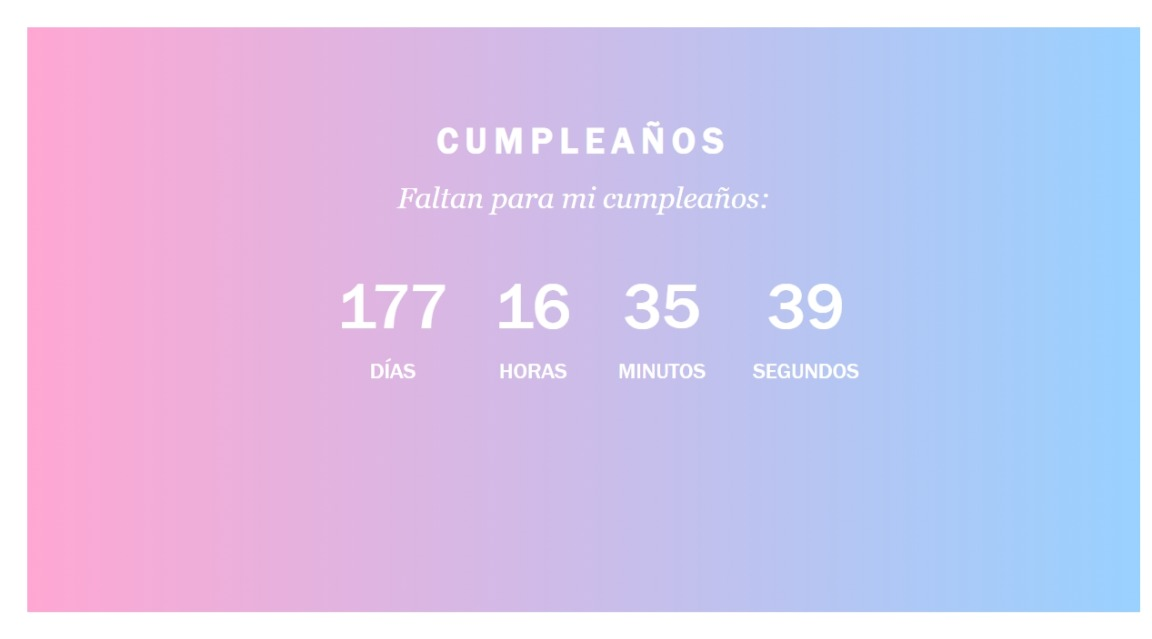
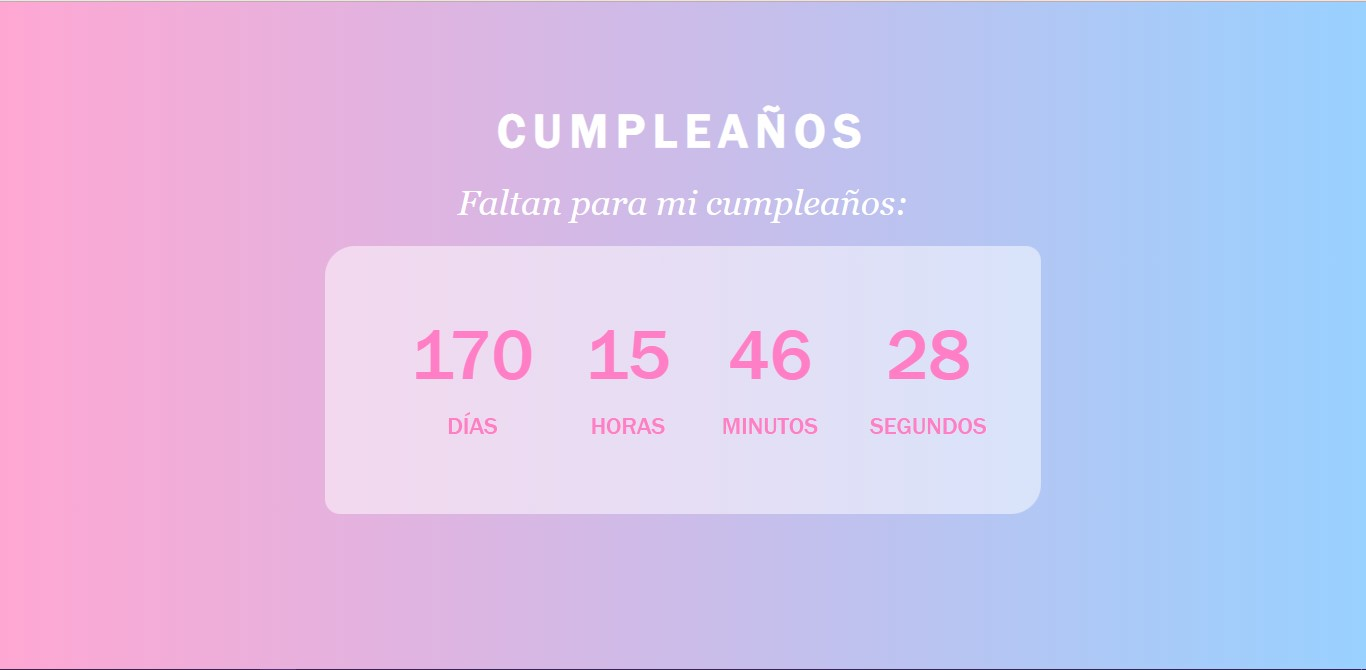
update

diff --git a/style.css b/style.css
@@ -1,6 +1,6 @@
 :root {
     box-sizing: border-box;
-    margin:30px;
+    margin:0;
     background-color: white;
 }
 body {
@@ -13,19 +13,34 @@ body {
 
 }
 .container {
-    color:white;
+    color:rgb(255, 126, 197);
     padding:100px;
     margin: 0 auto;
     text-align: center;
 }
+#countdown {
+    margin:0;
+    padding:30px;
+    display:block;
+    background-color: rgb(255, 255, 255, .5);
+    border-radius: 30px 15px;
+}
+h1, h3 {
+    color:white;
+    transition: text-shadow .75s;
+}
 h1 {
     font-weight: 700;
+    font-size: 3rem;
     letter-spacing: 0.5rem;
     text-transform: uppercase;
 }
+h1:hover, h3:hover {
+    text-shadow: 2px 2px 8px rgba(255, 255, 255);
+}  
 h3 {
     line-height: 2em;
-    font-size: 2rem;
+    font-size: 2.2rem;
     font-family: Georgia;
     font-style: oblique;
 }
@@ -51,18 +66,26 @@ li span {
 @media all and (max-width: 768px) {
 :root {
     margin:0;
+    padding:0;
 }
 .container {
-    height:100%;
+    height:100vh;
+    width: 100%;
+    margin:0;
 }
     h1 {
-        font-size: 1.5rem;
+        font-size: 1.8rem;
+    }
+    h3 {
+        font-size: 1.6rem;
+        line-height: 1.2;
+        padding-bottom: 1.75rem;
     }
     li {
         display:inline;
         min-width: 100px;
         font-size:1.2rem;
-        padding:30px;
+        padding:20px;
     }
     li span {
         display: inline;
